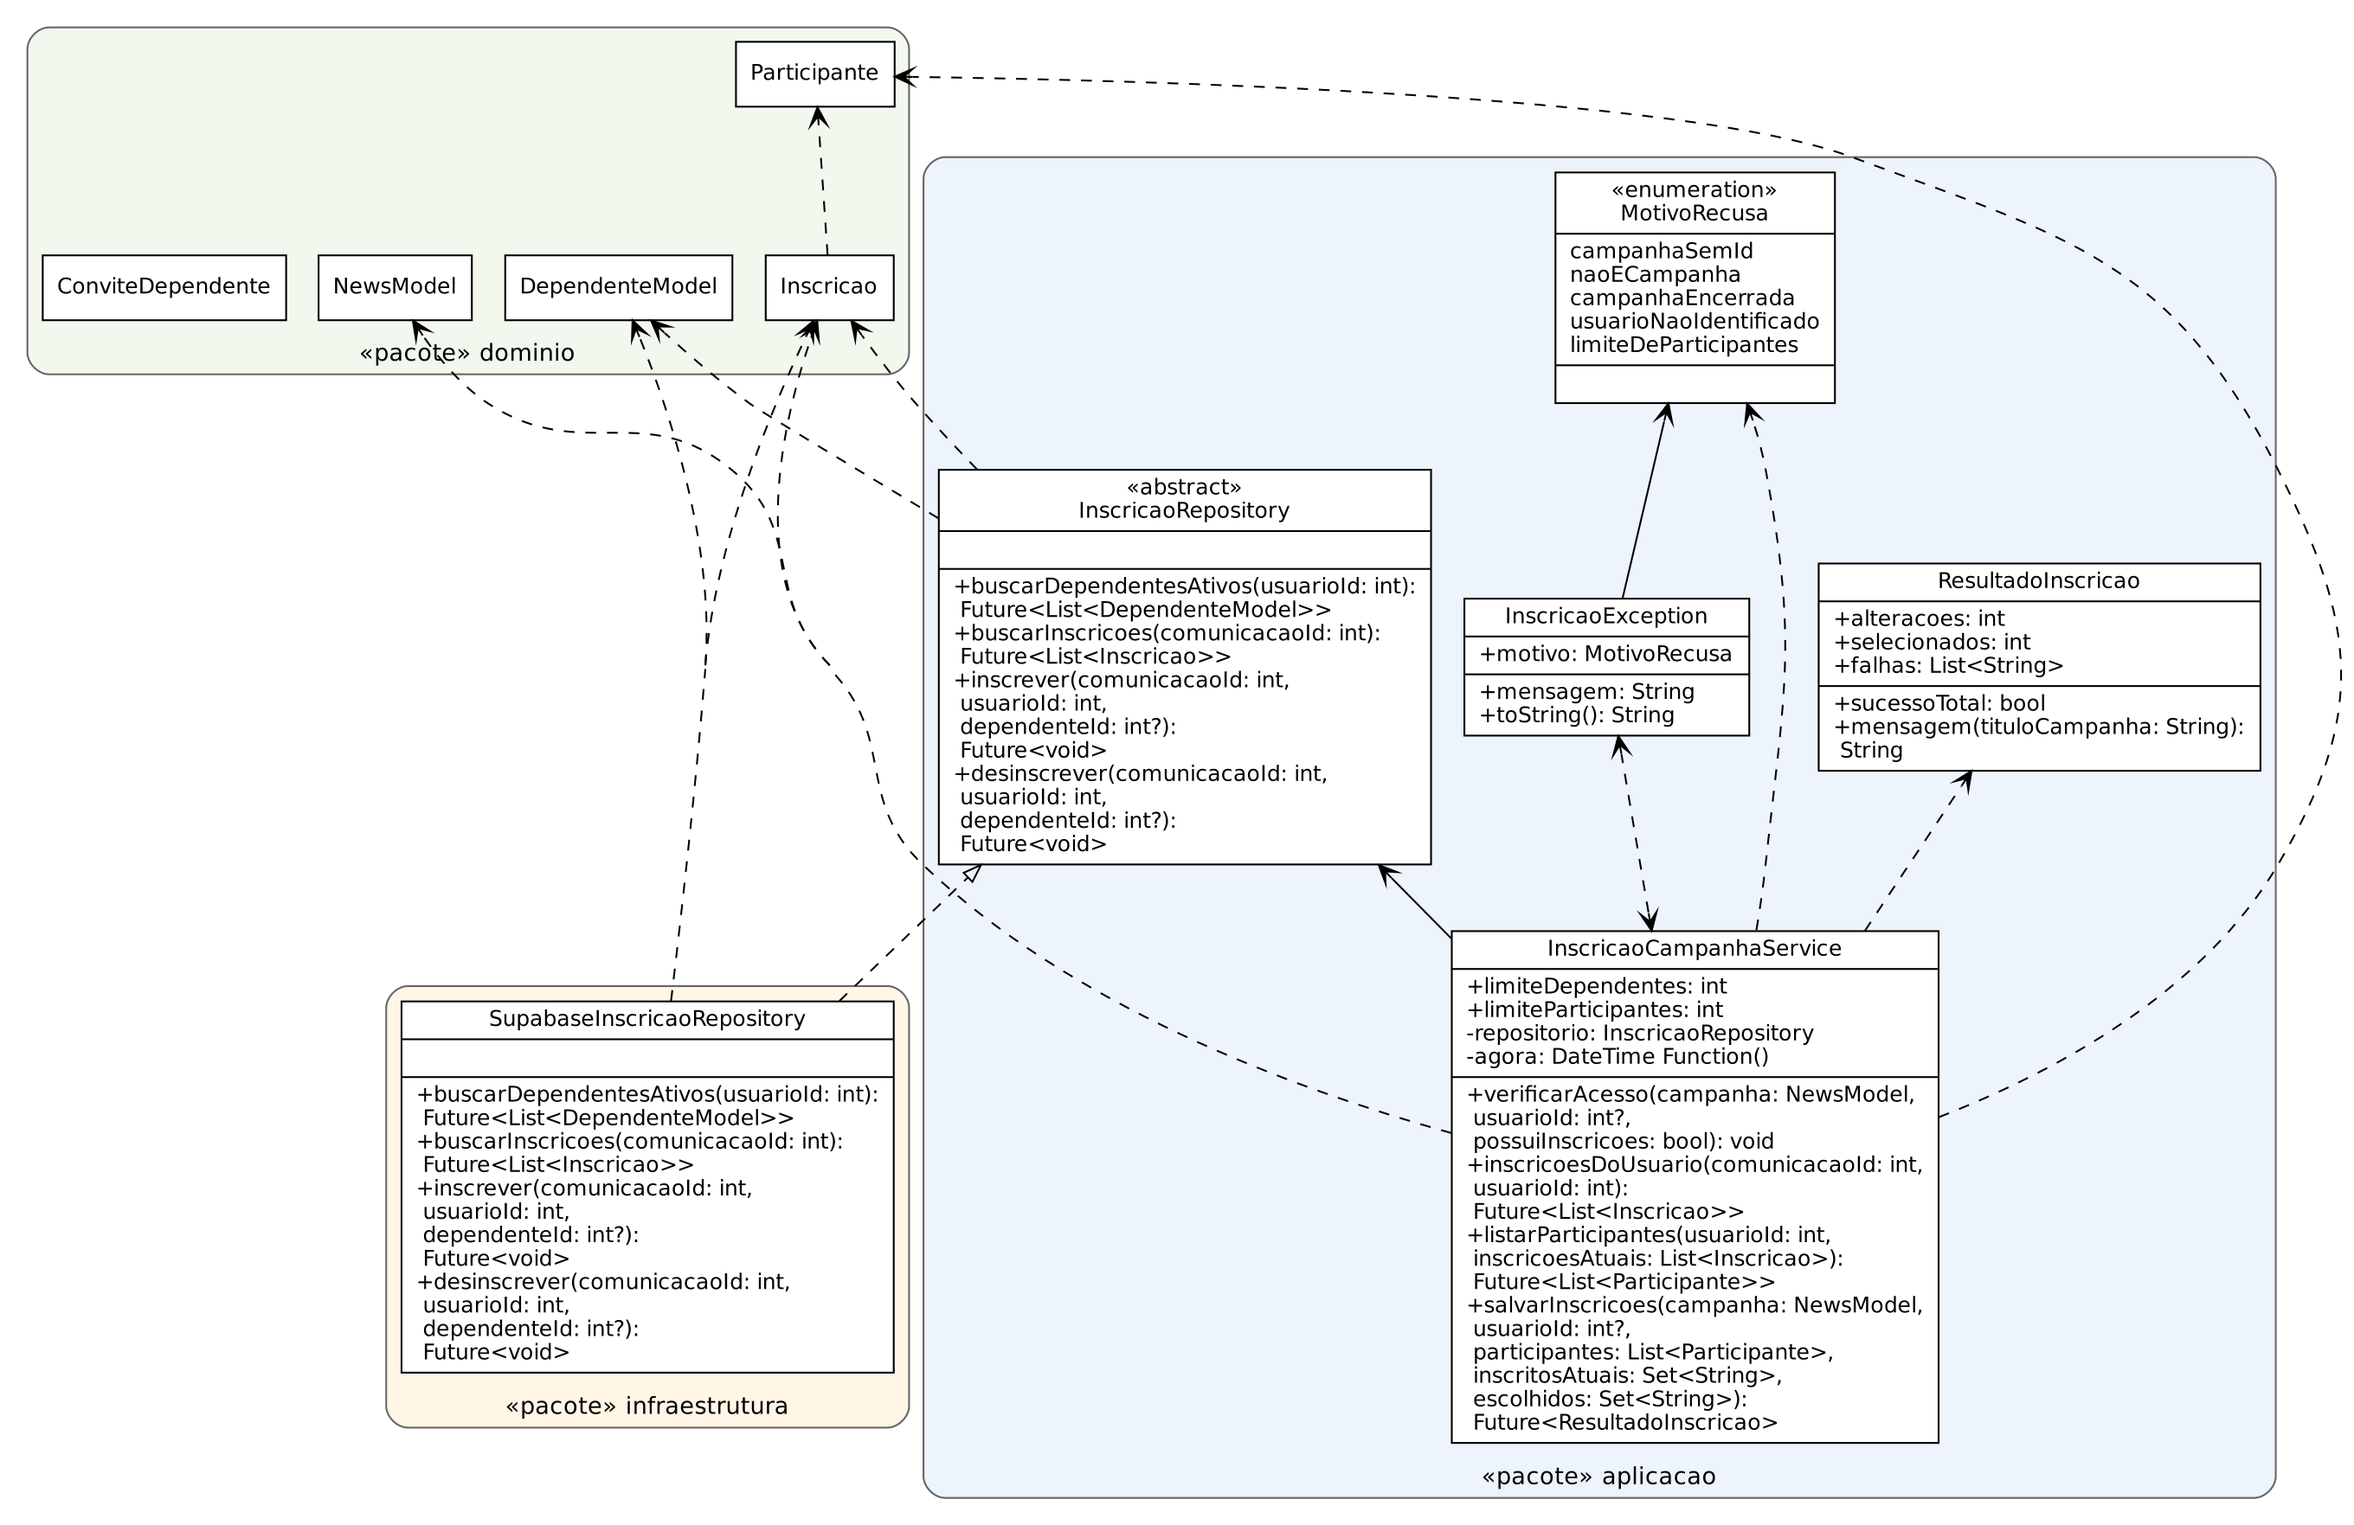
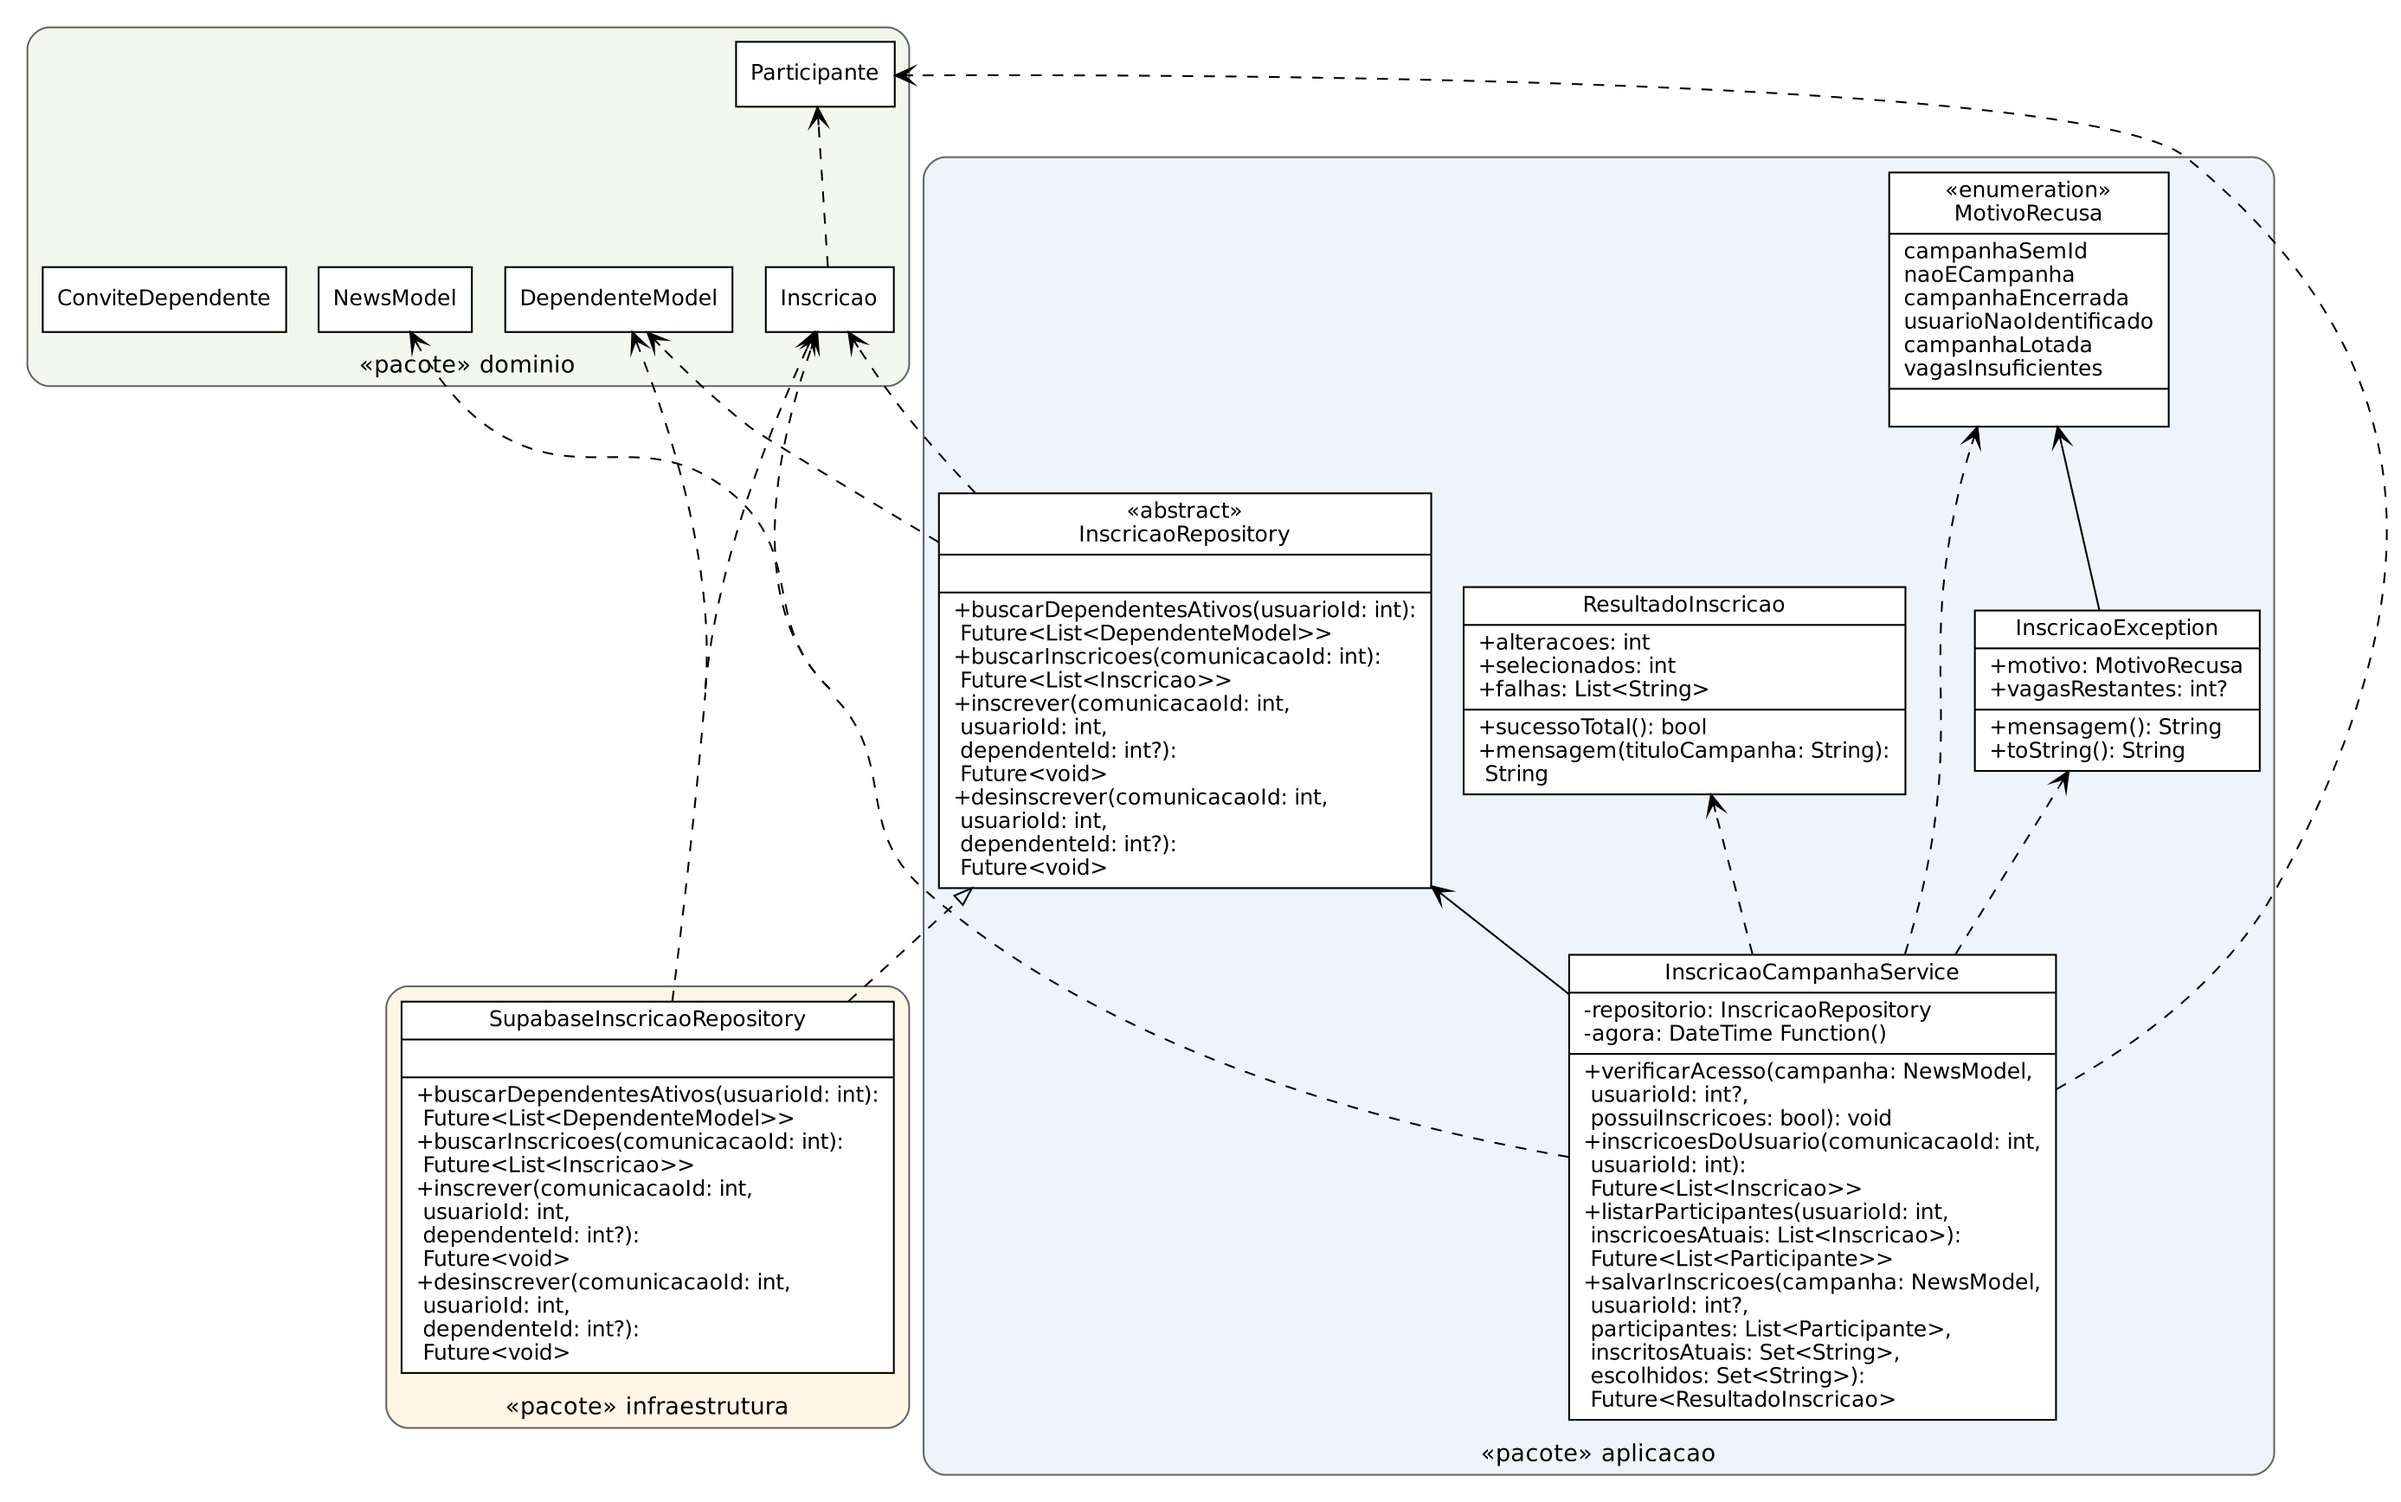
docs(qualidade): figuras do GFC e da engenharia reversa atualizadas

diff --git a/test/usecases/inscricao_campanha_service_test.dart b/test/usecases/inscricao_campanha_service_test.dart
@@ -293,7 +293,7 @@ void main() {
   });
 
   // ------------------------------------------------------------------
-  group('salvarInscricoes (passos 5 a 7)', () {
+  group('salvarInscricoes (passos 5 e 6)', () {
     Future<ResultadoInscricao> salvar(
       RepositorioStub repo, {
       NewsModel? camp,
@@ -437,7 +437,6 @@ void main() {
 
     test('CT20 · C2 · P1 — E2: campanha sem ID é recusada antes de gravar', () async {
       final repo = RepositorioStub();
-      // DRIVER: chama o serviço com a entrada do caso de teste.
       await expectLater(
         // DRIVER: chama o serviço com a entrada do caso de teste.
         salvar(repo, camp: campanha(id: null), escolhidos: {'titular'}),
@@ -449,7 +448,6 @@ void main() {
 
     test('CT17 · C2 · P2 — RN01: notícia é recusada antes de gravar', () async {
       final repo = RepositorioStub();
-      // DRIVER: chama o serviço com a entrada do caso de teste.
       await expectLater(
         // DRIVER: chama o serviço com a entrada do caso de teste.
         salvar(repo, camp: campanha(tag: 'ALERTA'), escolhidos: {'titular'}),
@@ -465,7 +463,6 @@ void main() {
 
     test('CT20 · C2 · P3 — E3: usuário nulo é recusado antes de gravar', () async {
       final repo = RepositorioStub();
-      // DRIVER: chama o serviço com a entrada do caso de teste.
       await expectLater(
         // DRIVER: chama o serviço com a entrada do caso de teste.
         salvar(repo, usuario: null, escolhidos: {'titular'}),
@@ -503,7 +500,6 @@ void main() {
 
     test('CT27 · C11 · P4 — RN07 limite: uma inscrição além das vagas restantes é recusada (E6)', () async {
       final repo = RepositorioStub();
-      // DRIVER: chama o serviço com a entrada do caso de teste.
       await expectLater(
         // DRIVER: chama o serviço com a entrada do caso de teste.
         salvar(

diff --git a/lib/usecases/inscricao_campanha_service.dart b/lib/usecases/inscricao_campanha_service.dart
@@ -26,17 +26,15 @@ abstract class InscricaoRepository {
   });
 }
 
-/// Motivos pelos quais o caso de uso não pode prosseguir.
+/// Motivos pelos quais o caso de uso não pode prosseguir. [campanhaLotada] é
+/// E5 (vagas esgotadas) e [vagasInsuficientes] é E6 (novas inscrições além das
+/// vagas restantes), ambos da RN07.
 enum MotivoRecusa {
   campanhaSemId,
   naoECampanha,
   campanhaEncerrada,
   usuarioNaoIdentificado,
-
-  /// E5: todas as vagas da campanha estão ocupadas (RN07).
   campanhaLotada,
-
-  /// E6: as novas inscrições escolhidas excedem as vagas restantes (RN07).
   vagasInsuficientes,
 }
 

diff --git a/qualidade/engenharia_reversa.py b/qualidade/engenharia_reversa.py
@@ -31,6 +31,18 @@ METODO = re.compile(
     re.M,
 )
 GRUPO = re.compile(r"group\(\s*'([^']+)'")
+OPERADOR = re.compile(r"^[ ]{2}(?:@override\s+)?(\w[\w<>?]*)\s+operator\s*(==|\[\]=?|[<>+\-*/%]=?)\s*(\([^)]*\))", re.M)
+
+
+def tipo_do_valor(corpo, nome):
+    """Tipo de um const/final sem tipo declarado, pelo valor inicial (ex.: {'a', 'b'} é Set<String>)."""
+    m = re.search(r"\b" + re.escape(nome) + r"\s*=\s*(.)", corpo)
+    if not m:
+        return ""
+    inicio = corpo[m.start(1):m.start(1) + 40]
+    if inicio[0] == "{":
+        return "Map<String, …>" if ":" in inicio.split("}")[0] else "Set<String>"
+    return {"[": "List", "'": "String", '"': "String"}.get(inicio[0], "int" if inicio[0].isdigit() else "")
 PALAVRAS = {"return", "if", "for", "while", "switch", "throw", "await", "new", "else"}
 
 
@@ -122,7 +134,9 @@ def analisar(arquivos):
                     t = t.strip()
                     if t in PALAVRAS or ("(" in t and "Function" not in t) or t.endswith(" get") or t == "get":
                         continue
-                    info["atributos"].append((n, "" if t in ("const", "final") else t))
+                    if n == "operator":
+                        continue  # sobrecarga de operador: vai para os métodos (OPERADOR)
+                    info["atributos"].append((n, tipo_do_valor(corpo, n) if t in ("const", "final") else t))
                 for static, ret, get, n, params, fim in METODO.findall(declaracoes):
                     ret = ret.strip()
                     if ret in PALAVRAS or n in PALAVRAS or ret in ("const", "final"):
@@ -131,8 +145,10 @@ def analisar(arquivos):
                         continue  # é atributo, não método
                     if ret.startswith("factory") or ret == nome or n == nome:
                         continue  # construtores ficam fora do diagrama
-                    rotulo = (n + ("" if get else "(" + parametros(params) + ")"))
+                    rotulo = n + "(" + ("" if get else parametros(params)) + ")"  # getter = operação sem parâmetros
                     info["metodos"].append((rotulo, "", (ret + (" {static}" if static else "")).strip()))
+                for ret, op, params in OPERADOR.findall(declaracoes):
+                    info["metodos"].append(("operator " + op + "(" + parametros(params) + ")", "", ret))
             classes[nome] = info
         if arq.name.endswith("_test.dart"):
             nome = "".join(p.capitalize() for p in arq.stem.split("_"))

diff --git a/qualidade/diagramas/ex08_gfc_legenda.md b/qualidade/diagramas/ex08_gfc_legenda.md
@@ -7,8 +7,8 @@
 | 5 | bloco | `throw const InscricaoException(MotivoRecusa.naoECampanha)` |
 | 6 | predicado | `if (usuarioId == null)` |
 | 7 | bloco | `throw const InscricaoException(MotivoRecusa.usuarioNaoIdentificado)` |
-| 8 | predicado | `if (escolhidos.length > limiteParticipantes)` |
-| 9 | bloco | `throw const InscricaoException(MotivoRecusa.limiteDeParticipantes)` |
+| 8 | predicado | `if (!campanha.comportaNovas(escolhidos.difference(inscritosAtuais).length))` |
+| 9 | bloco | `throw InscricaoException( MotivoRecusa.vagasInsuficientes, vagasRestantes: campanha.vagasRestantes, )` |
 | 10 | bloco | `final encerrada = campanha.encerradaEm(_agora())<br>final falhas = <String>[]<br>var alteracoes = 0` |
 | 11 | predicado | `laço (final participante in participantes)` |
 | 12 | bloco | `final estavaInscrito = inscritosAtuais.contains(participante.chave)<br>final deveEstarInscrito = escolhidos.contains(participante.chave)` |
